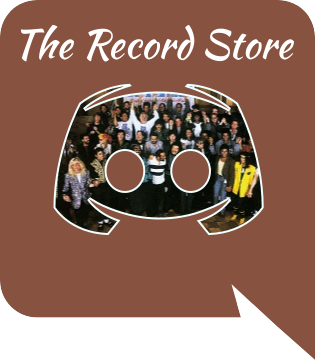
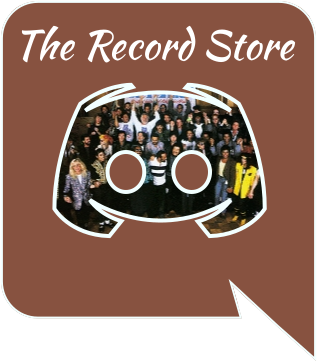
Basic style fixes

diff --git a/index.html b/index.html
@@ -7,7 +7,7 @@
   <h1>The Record Store</h1>
   <p>If you’re really into old music, you should join my Discord server. We have almost 100 people who know about music. We have staff who make 12 picks each every week. We talk about all kinds of music. 1920’s, 1930’s, 1940’s, 1950’s, 1960’s, 1970’s, 1980’s, 1990’s, early 2000’s and the very few good artists of today. We discuss pretty much all genres of music including but not limited to Rock, Pop, Metal, Classical, Country, Rythm and Blues, Soul, Jazz, Disco, Punk, Electronic, etc. We have dedicated staff who have extensive musical knowledge not only in different genres and eras of music but also in the history of music including the history of individual artists and groups, individual songs and many more things. We are an active community of music enthusiasts of all ages.</p>
   <p id="link-buttons-wrapper"
-    ><a href="https://discord.gg/myFkn8g"><img alt="Join my server!" src="button.png" width="315px" height="360px"/></a>
+    ><a href="https://discord.gg/myFkn8g"><img alt="Join my server!" src="button.png" width="317px" height="362px"/></a>
     <div class="g-ytsubscribe" data-channelid="UCwVZDrMmaZe_2CSPzG-dkXA" data-layout="full" data-theme="dark" data-count="default"></div
   ></p>
 </html>

diff --git a/style.css b/style.css
@@ -3,8 +3,13 @@
   width: 25em;
 }
 html {
+  background-color: #432920;
   font-family: 'Arvo', serif;
+  color: white;
 }
 #link-buttons-wrapper {
   text-align: center;
+}
+#link-buttons-wrapper > a {
+  display: inline-block;
 }
